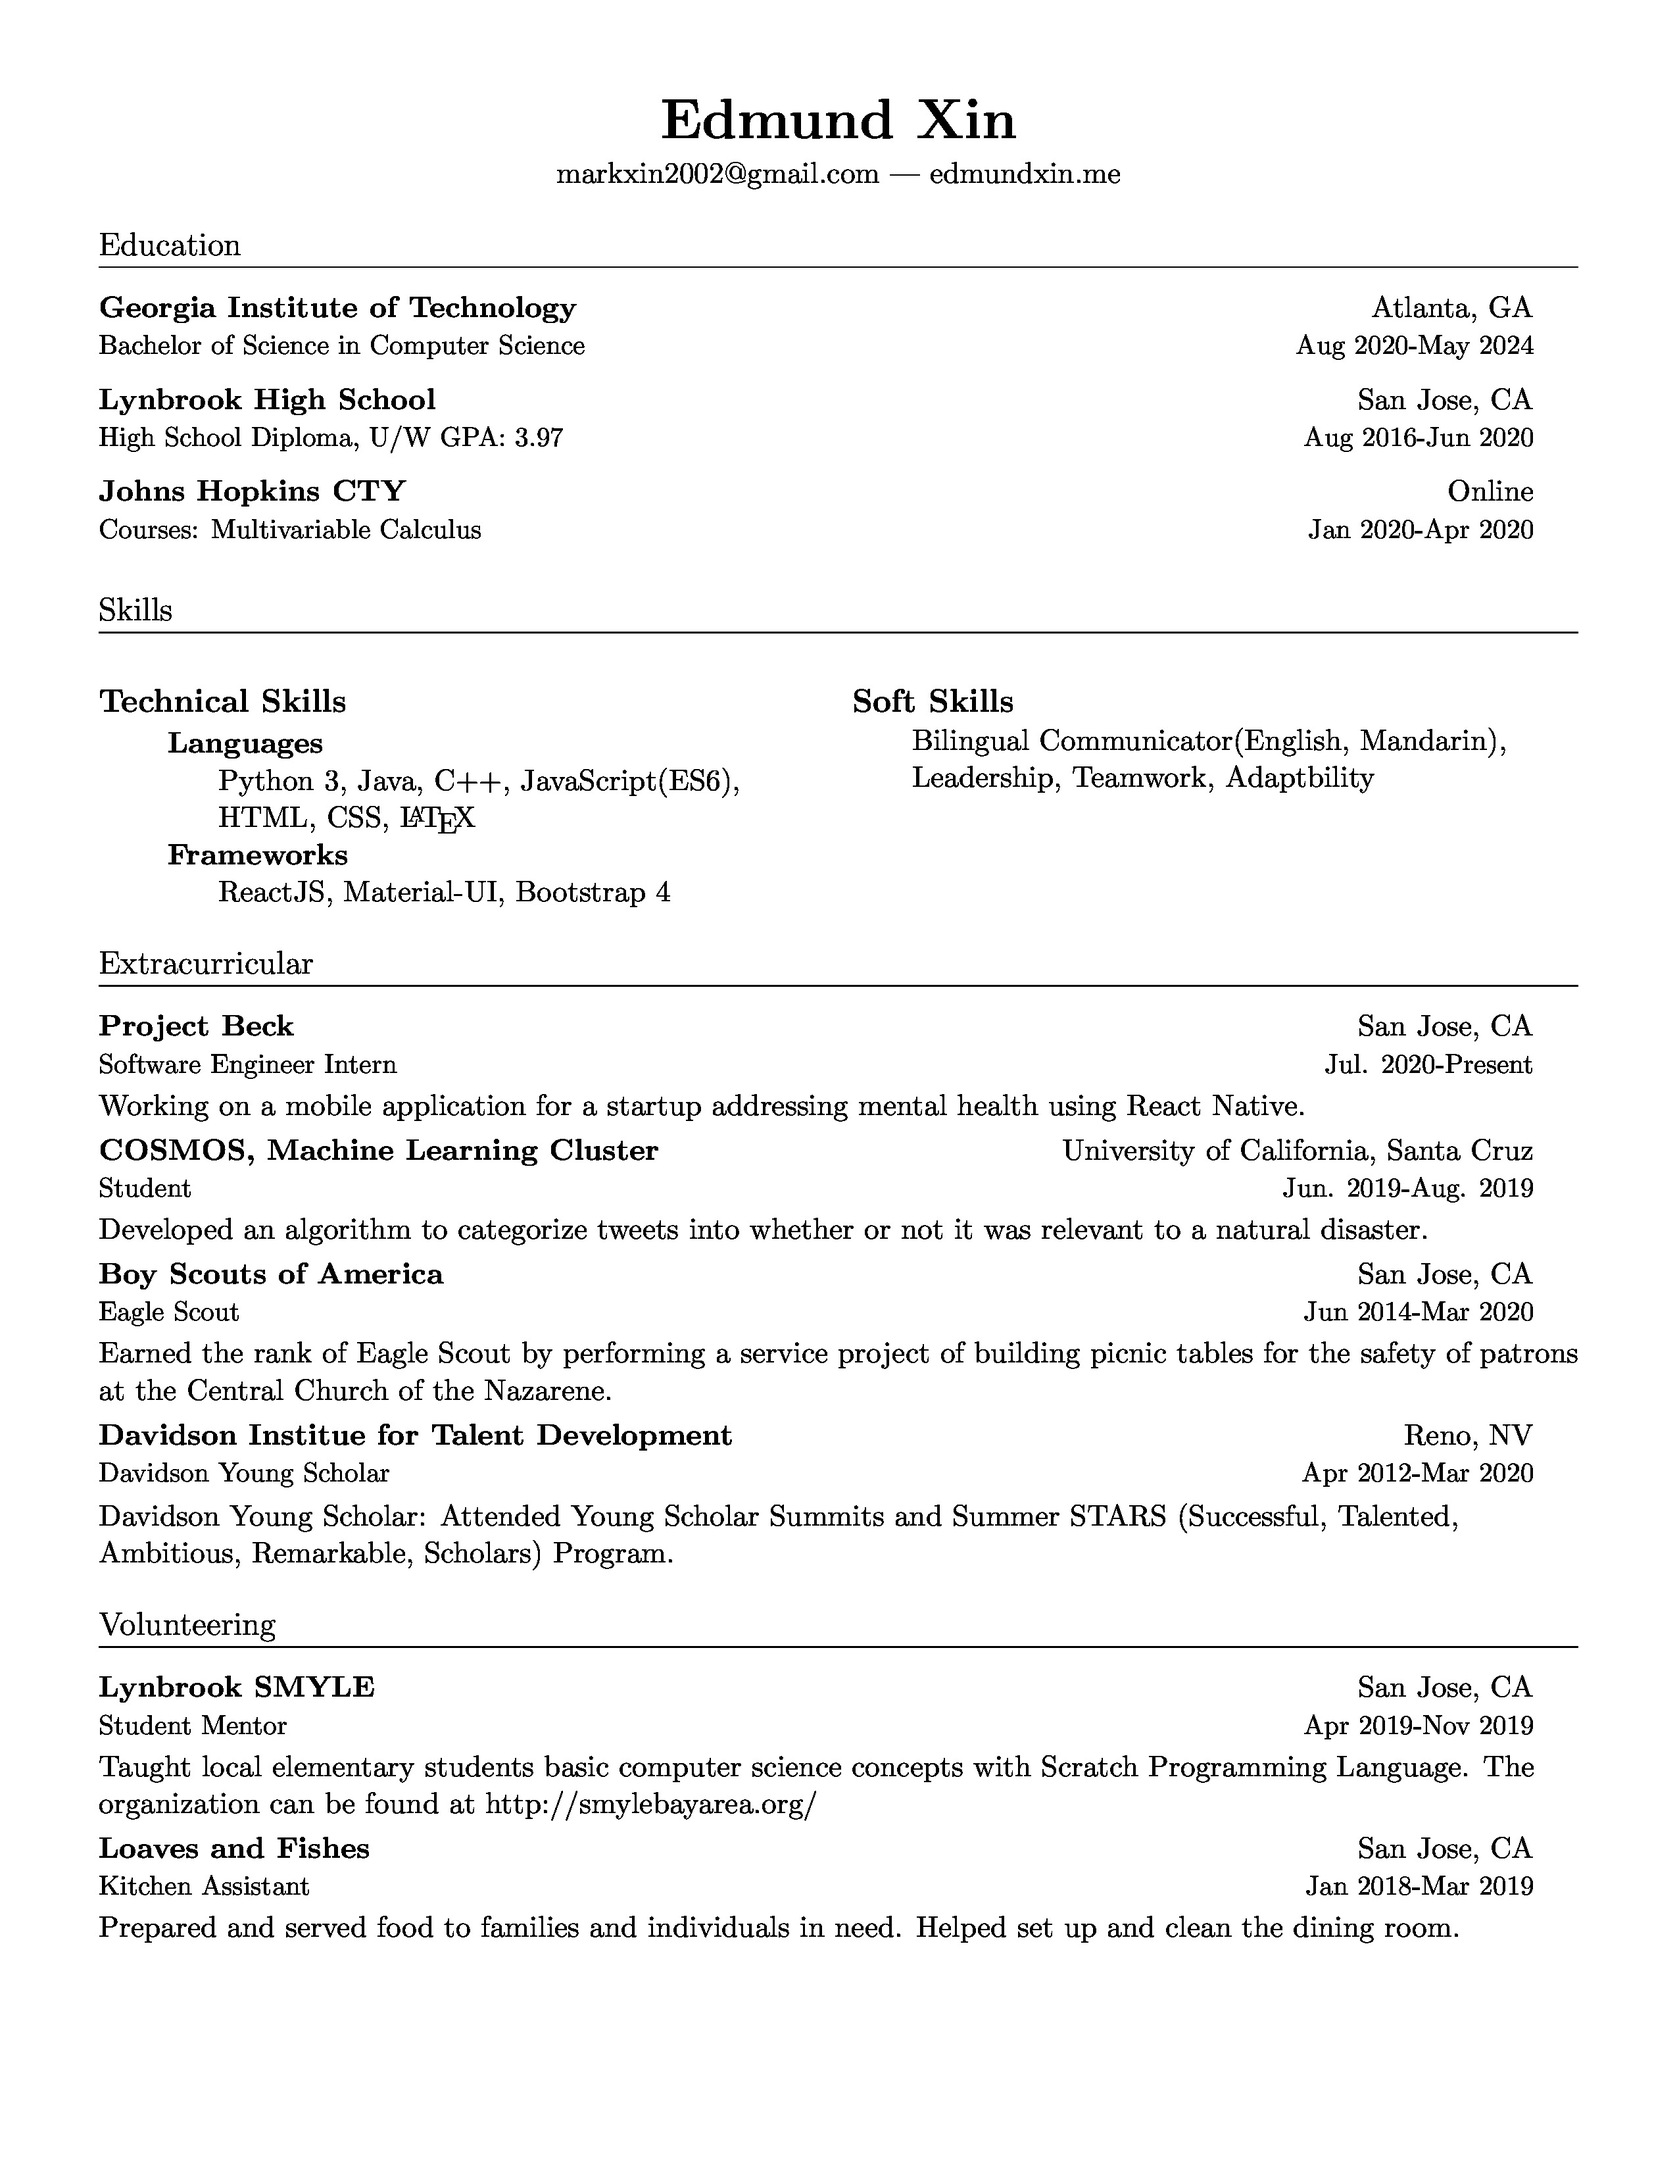
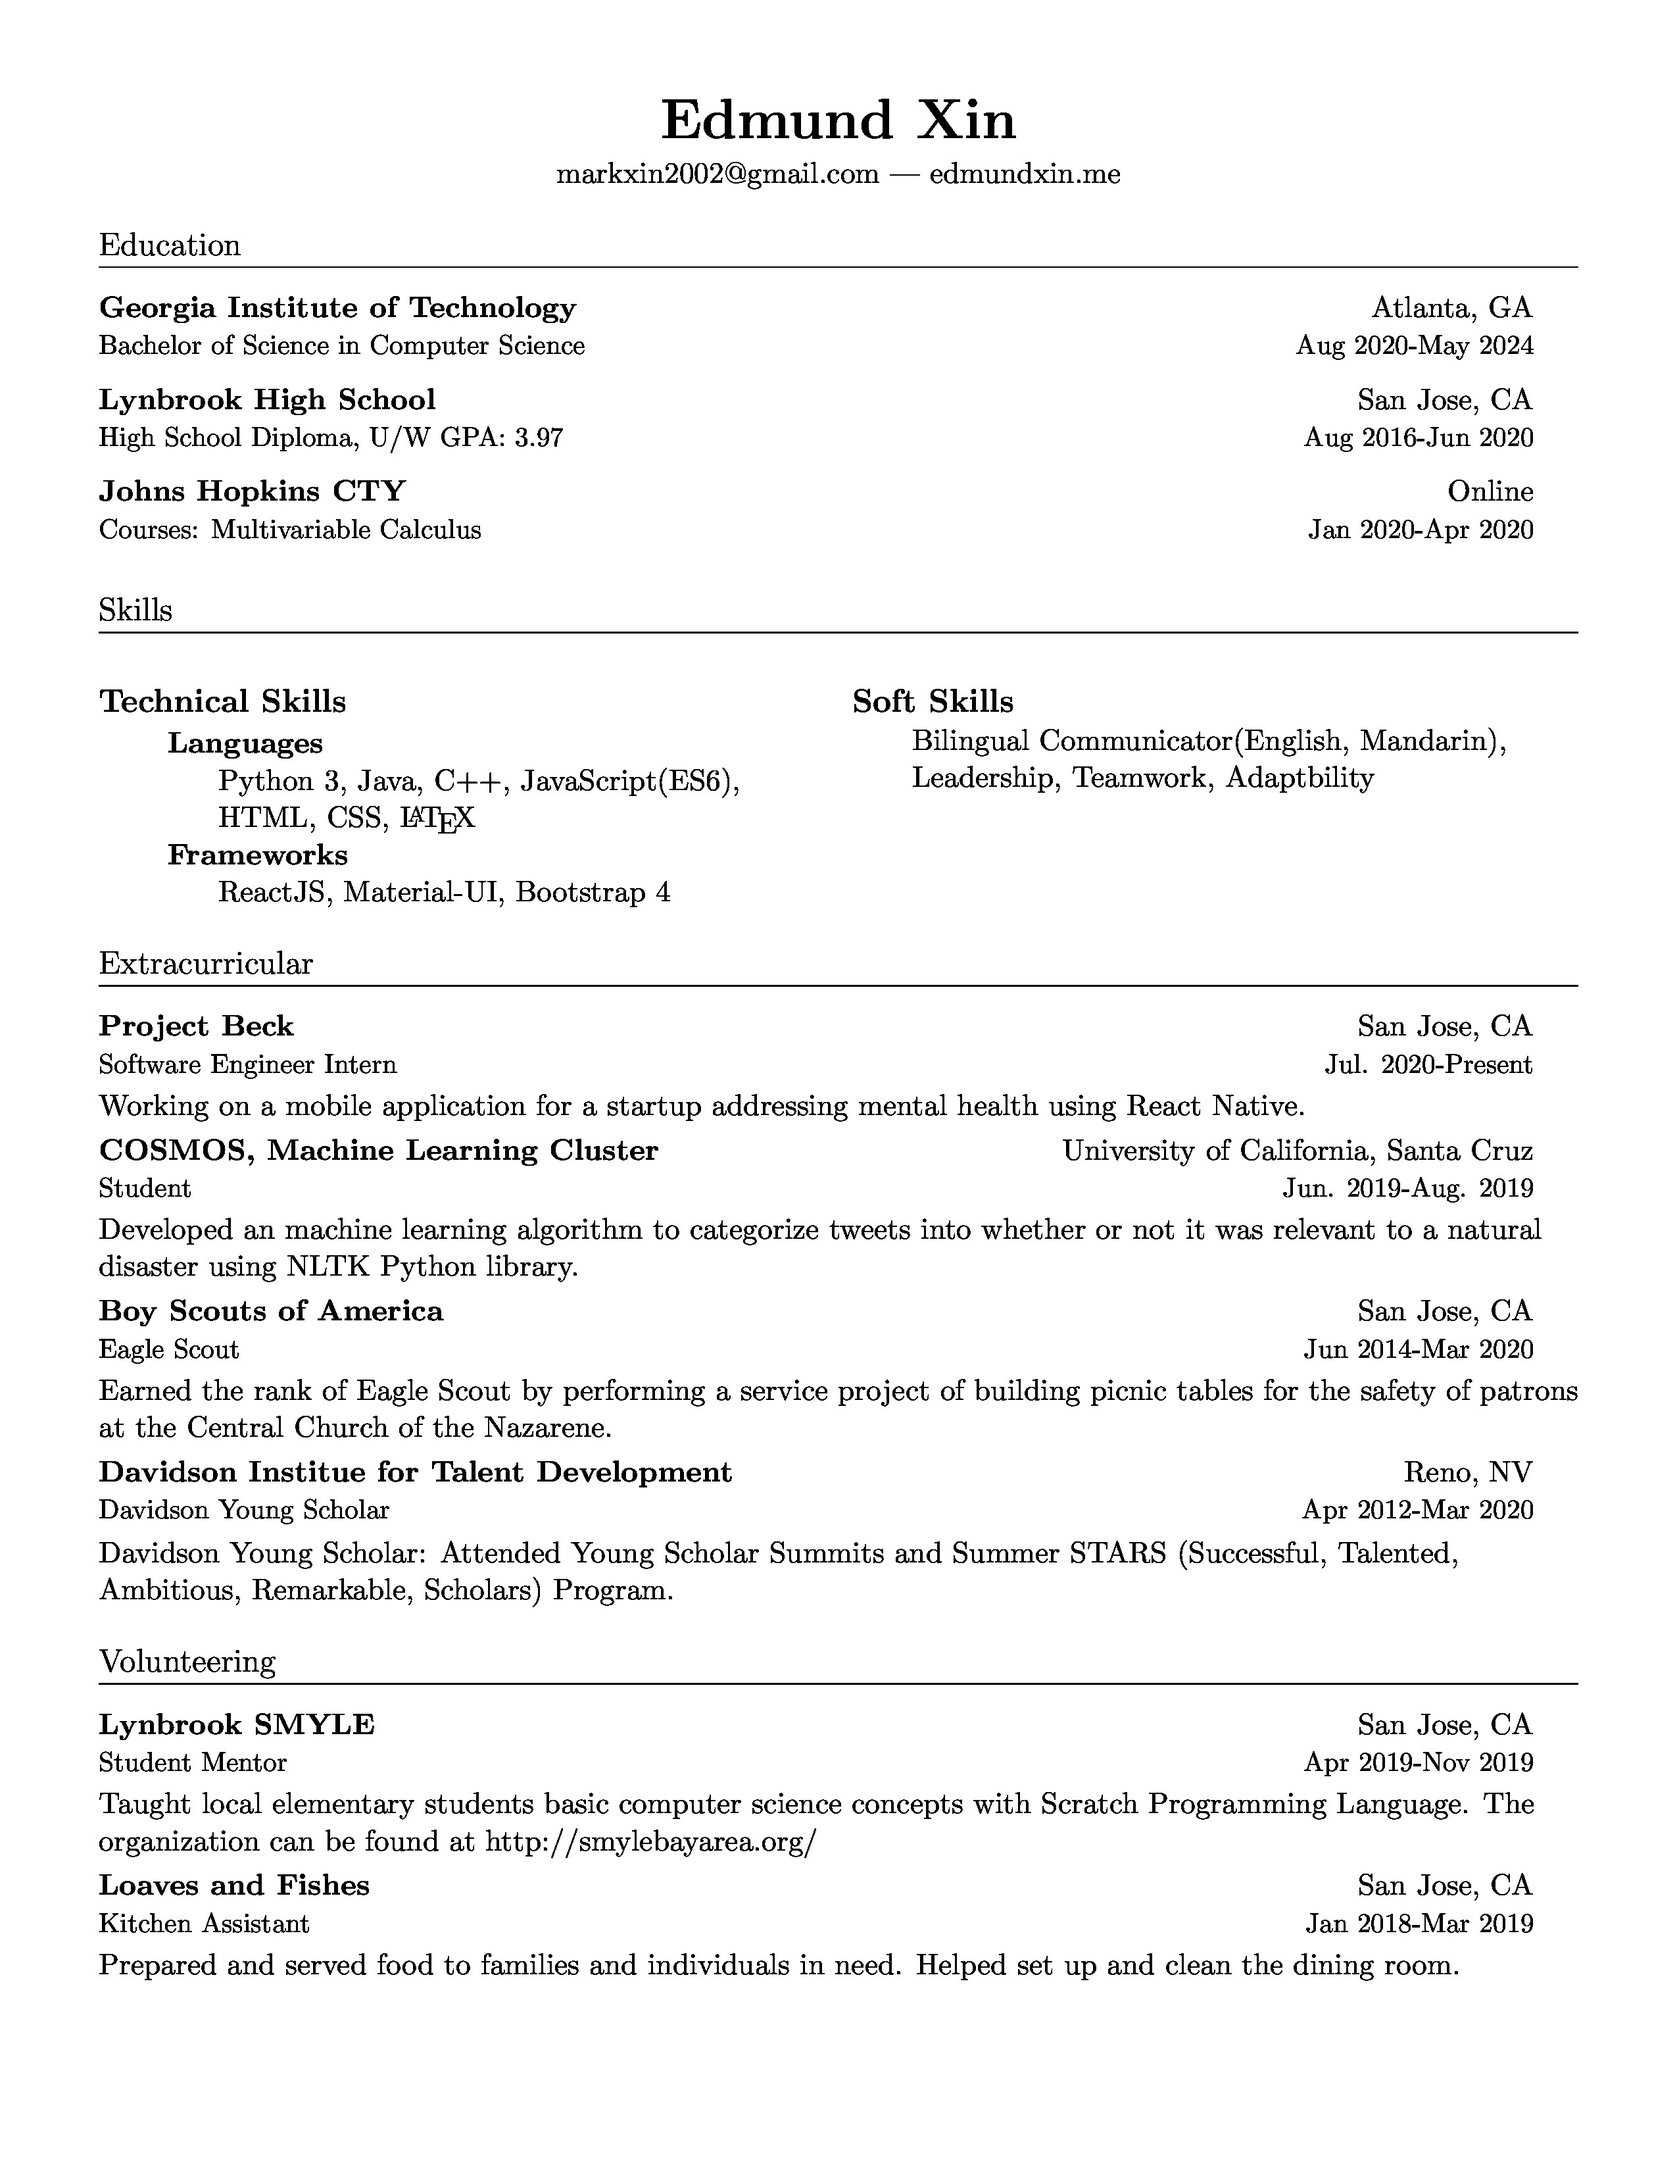
update

diff --git a/resume.tex b/resume.tex
@@ -134,7 +134,7 @@ Working on a mobile application for a startup addressing mental health using Rea
 \resumeSubheading{COSMOS, Machine Learning Cluster}
 {University of California, Santa Cruz}{Student}{Jun. 2019-Aug. 2019}
 
-Developed an algorithm to categorize tweets into whether or not it was relevant to a natural disaster.
+Developed an machine learning algorithm to categorize tweets into whether or not it was relevant to a natural disaster using NLTK Python library.
 
 \resumeSubheading{Boy Scouts of America}
 {San Jose, CA}{Eagle Scout}{Jun 2014-Mar 2020}
